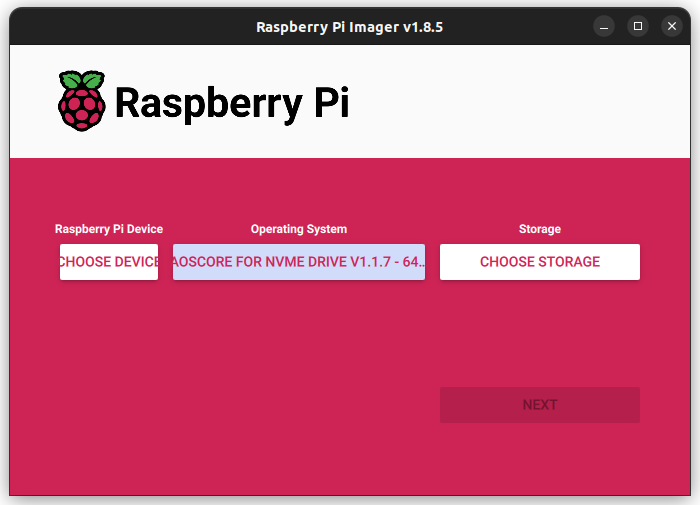
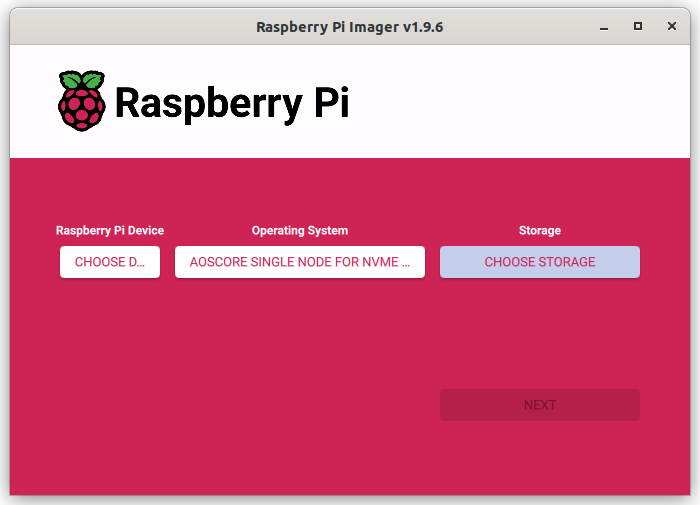
doc: readme: update install instruction for the single node image
This patch updates the installation instructions to describe
steps for the single node image. Also, screenshots are updated:
- RPI imager v1.9.6 is used;
- screenshots contains the recent build images changes:
single, main, secondary node images.

Changed region(s): [[0.0, 0.0, 0.99, 0.0891], [0.06, 0.4455, 0.93, 0.5644]]

diff --git a/README.md b/README.md
@@ -125,7 +125,8 @@ If you do not have those please consider getting a [docking station](https://eu.
       ![Step 1](doc/pictures/install_step_1.png)
    - select **AosCore image**:  
       ![Step 2](doc/pictures/install_step_2.png)
-   - depend on your setup, select image either for NVMe drive **AosCore for NVMe drive** or **AosCore for USB drive**:  
+   - depend on your setup, select single node image either for NVMe drive **AosCore single node for NVMe drive**
+    or **AosCore single node for USB drive**:  
       ![Step 3](doc/pictures/install_step_3.png)
 
 5. Select storage:
@@ -225,13 +226,16 @@ If you do not have those please consider getting a [docking station](https://eu.
      be logged in `DomD`:
 
       ```console
-      (XEN) root@main:~#
+      (XEN) main login: pi
+      (XEN) Password:
+
+      (XEN) main:~$
       ```
 
    - Input `ip r` command to get your device IP address (see `default`):
 
       ```console
-      (XEN) root@main:~# ip r
+      (XEN) main:~# ip r
       (XEN) default via 192.168.50.1 dev eth0  src 192.168.50.6  metric 1024
       (XEN) 10.0.0.0/24 dev eth0 scope link  src 10.0.0.100
       (XEN) 172.17.0.0/16 dev br-sp9a53b711 scope link  src 172.17.0.2
